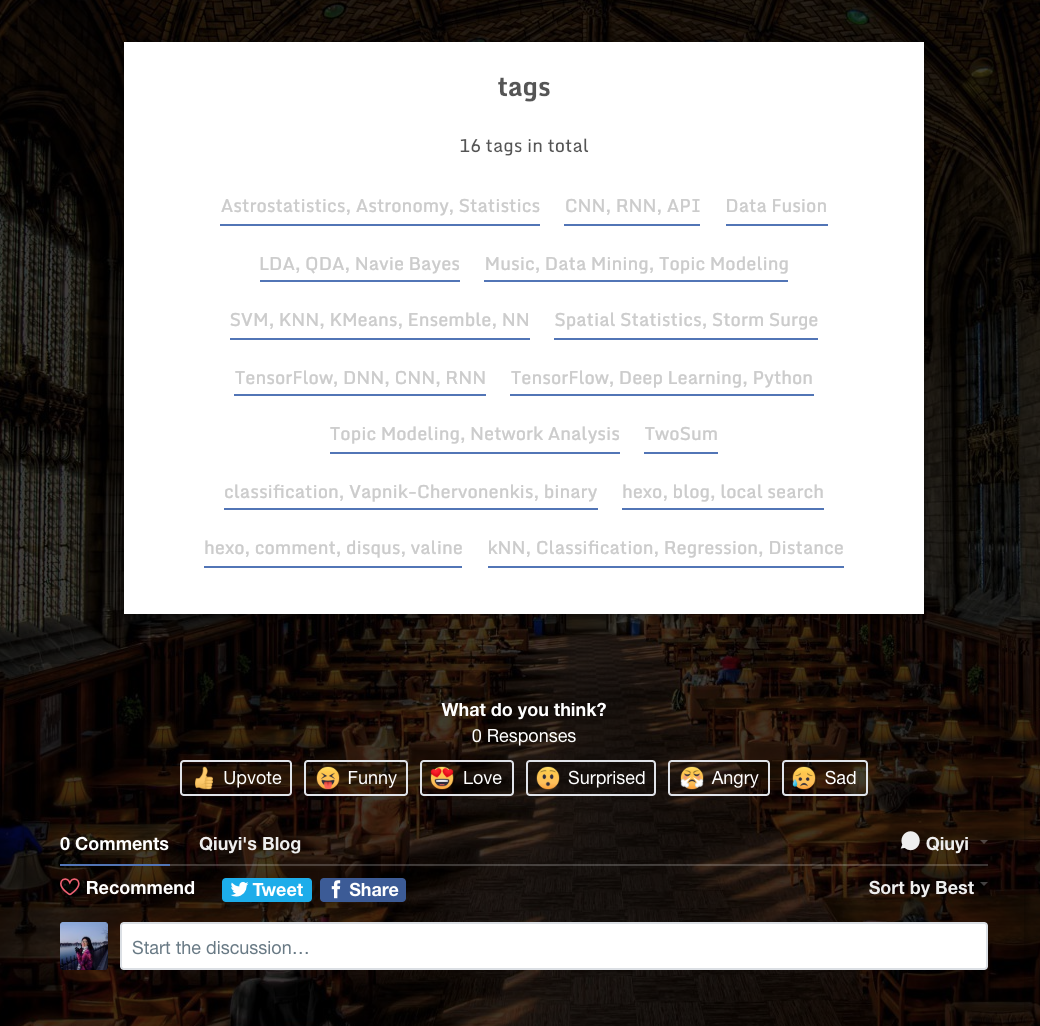
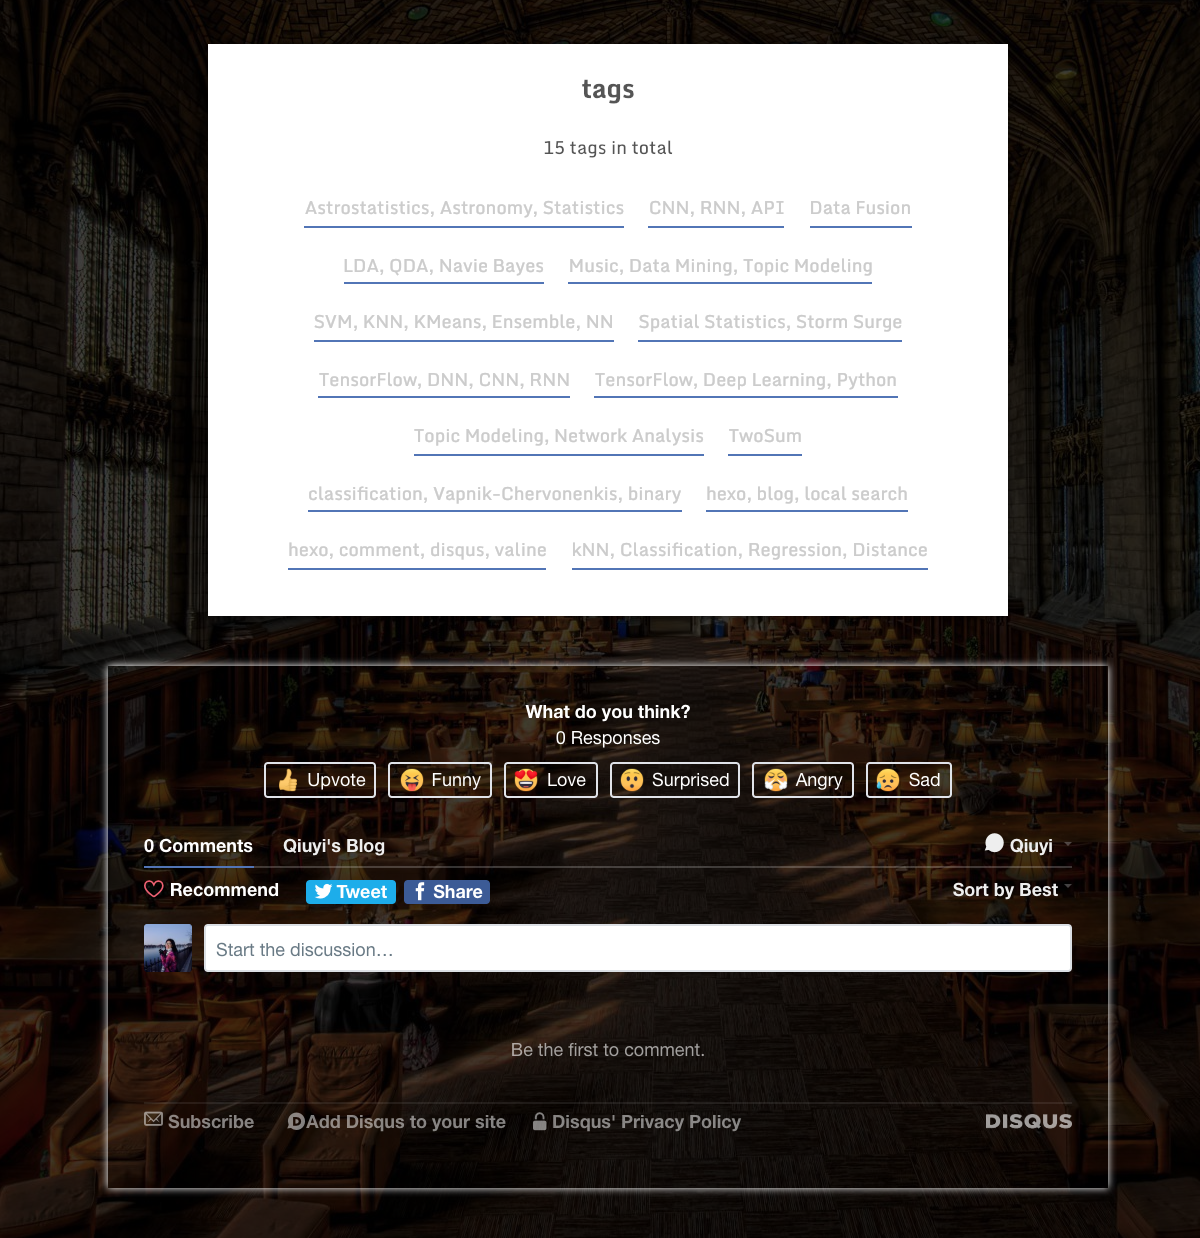
Site updated: 2019-01-25 22:59:00

diff --git a/2019/01/25/Hexo-Comment/index.html b/2019/01/25/Hexo-Comment/index.html
@@ -150,8 +150,10 @@
 <meta property="og:image" content="https://qiuyiwu.github.io/images/2019/01/s3.png">
 <meta property="og:image" content="https://qiuyiwu.github.io/images/2019/01/s4.png">
 <meta property="og:image" content="https://qiuyiwu.github.io/images/2019/01/s5.png">
+<meta property="og:image" content="https://qiuyiwu.github.io/images/2019/01/v1.gif">
+<meta property="og:image" content="https://qiuyiwu.github.io/images/2019/01/v2.gif">
 <meta property="og:image" content="https://qiuyiwu.github.io/images/2019/01/tag.png">
-<meta property="og:updated_time" content="2019-01-26T02:37:27.700Z">
+<meta property="og:updated_time" content="2019-01-26T03:57:09.523Z">
 <meta name="twitter:card" content="summary">
 <meta name="twitter:title" content="Add Comments to Your Hexo Site">
 <meta name="twitter:description" content="Hexo as a static site generators has become a popular choice for blogger. When using something like WordPress or Medium you get a comment section out of the box sponstaneously, it is not as straightfo">
@@ -423,7 +425,7 @@
               
                 <span class="post-meta-item-text">Post modified&#58;</span>
               
-              <time title="Post modified" itemprop="dateModified" datetime="2019-01-25T21:37:27-05:00">
+              <time title="Post modified" itemprop="dateModified" datetime="2019-01-25T22:57:09-05:00">
                 2019-01-25
               </time>
             
@@ -469,7 +471,7 @@
                   <span class="post-meta-item-text">Words count in article&#58;</span>
                 
                 <span title="Words count in article">
-                  943
+                  940
                 </span>
               
 
@@ -549,7 +551,7 @@
 <p>Then paste <code>&lt;div id=&quot;disqus_thread&quot;&gt;&lt;/div&gt;</code> where you want the comments to go.<br><strong>Now you are settled!</strong></p>
 <h2 id="Valine-Comments"><a href="#Valine-Comments" class="headerlink" title="Valine Comments"></a>Valine Comments</h2><p><a href="https://valine.js.org/en/hexo.html" target="_blank" rel="noopener">Valine</a> was designed in August 7, 2017. It’s a fast, simple &amp; efficient Leancloud based no back end comment system. Theoretically, but not limited to static blog. Hexo, Jekyll, Typecho, Hugo and other blog programs are currently using Valine. </p>
 <p><em>Note: Valine is a Chinese friendly system.</em></p>
-<h4 id="Features"><a href="#Features" class="headerlink" title="Features"></a>Features</h4><ul>
+<h3 id="Features"><a href="#Features" class="headerlink" title="Features"></a>Features</h3><ul>
 <li>Emoji 😉</li>
 <li>High speed.</li>
 <li>Safe by default.</li>
@@ -558,7 +560,7 @@
 <li>Simple and lightweight (15kB gzipped).</li>
 <li>Article reading statistics <code>v1.2.0+</code></li>
 </ul>
-<h4 id="Steps"><a href="#Steps" class="headerlink" title="Steps"></a>Steps</h4><ol>
+<h3 id="Steps"><a href="#Steps" class="headerlink" title="Steps"></a>Steps</h3><ol>
 <li><p>Creat an account in <a href="https://leancloud.cn/dashboard/login.html#/signup" target="_blank" rel="noopener">LeanCloud</a>.</p>
 </li>
 <li><p>Create new application in LeanCloud <a href="https://leancloud.cn/dashboard/applist.html#/newapp" target="_blank" rel="noopener">here</a>, and you will get APP ID/APP Key.<br>Details: Name your application, then go to <strong>Setting</strong>, then <strong>Apply Key</strong>.</p>
@@ -584,8 +586,9 @@
 </li>
 </ol>
 <p>More Information can be found <a href="https://valine.js.org/en/quickstart.html" target="_blank" rel="noopener">here</a>.</p>
-<h2 id="Comparison-Between-Disqus-amp-Valine"><a href="#Comparison-Between-Disqus-amp-Valine" class="headerlink" title="Comparison Between Disqus &amp; Valine"></a>Comparison Between Disqus &amp; Valine</h2><p>There are different merits between the two Comment systems.</p>
-<h2 id="Some-Tips"><a href="#Some-Tips" class="headerlink" title="Some Tips"></a>Some Tips</h2><h4 id="Modify-Comment-background-and-size"><a href="#Modify-Comment-background-and-size" class="headerlink" title="Modify Comment background and size"></a>Modify Comment background and size</h4><p>Under route <code>theme/source/css/_custom/custom.styl</code>, we can modify the size and background of the comment section.<br><figure class="highlight css"><table><tr><td class="gutter"><pre><span class="line">1</span><br><span class="line">2</span><br><span class="line">3</span><br><span class="line">4</span><br><span class="line">5</span><br><span class="line">6</span><br></pre></td><td class="code"><pre><span class="line"><span class="selector-class">.comments</span> &#123;</span><br><span class="line">    <span class="attribute">background-color</span>: <span class="built_in">rgba</span>(168, 201, 50, 0);</span><br><span class="line">    <span class="attribute">box-shadow</span>: <span class="number">0px</span> <span class="number">0px</span> <span class="number">10px</span> <span class="number">0px</span> <span class="built_in">rgba</span>(0, 0, 0, 0.35);</span><br><span class="line">    <span class="attribute">margin</span>: <span class="number">50px</span> -<span class="number">50px</span> <span class="number">20px</span> -<span class="number">50px</span>;</span><br><span class="line">    <span class="attribute">padding</span>: <span class="number">2rem</span>;</span><br><span class="line">&#125;</span><br></pre></td></tr></table></figure></p>
+<h2 id="Comparison-Between-Disqus-amp-Valine"><a href="#Comparison-Between-Disqus-amp-Valine" class="headerlink" title="Comparison Between Disqus &amp; Valine"></a>Comparison Between Disqus &amp; Valine</h2><p>There are different merits between the two Comment systems.<br><img src="/images/2019/01/v1.gif" alt="Sample Image Added via Markdown"></p>
+<p><img src="/images/2019/01/v2.gif" alt="Sample Image Added via Markdown"></p>
+<h2 id="Some-Tips"><a href="#Some-Tips" class="headerlink" title="Some Tips"></a>Some Tips</h2><h4 id="Modify-Comment-background-and-size"><a href="#Modify-Comment-background-and-size" class="headerlink" title="Modify Comment background and size"></a>Modify Comment background and size</h4><p>Under route <code>theme/source/css/_custom/custom.styl</code>, we can modify the size and background of the comment section.<br><figure class="highlight css"><table><tr><td class="gutter"><pre><span class="line">1</span><br><span class="line">2</span><br><span class="line">3</span><br><span class="line">4</span><br><span class="line">5</span><br><span class="line">6</span><br></pre></td><td class="code"><pre><span class="line"><span class="selector-class">.comments</span> &#123;</span><br><span class="line">    background-color: rgb(255, 255, 0);;</span><br><span class="line">    <span class="selector-tag">box-shadow</span>: 0<span class="selector-tag">px</span> 0<span class="selector-tag">px</span> 10<span class="selector-tag">px</span> 0<span class="selector-tag">px</span> <span class="selector-tag">rgb</span>(255, 255, 255);;</span><br><span class="line">    <span class="selector-tag">margin</span>: 50<span class="selector-tag">px</span> <span class="selector-tag">-50px</span> 20<span class="selector-tag">px</span> <span class="selector-tag">-50px</span>;</span><br><span class="line">    <span class="selector-tag">padding</span>: 2<span class="selector-tag">rem</span>;</span><br><span class="line">&#125;</span><br></pre></td></tr></table></figure></p>
 <h4 id="Turn-off-Comment-in-other-page"><a href="#Turn-off-Comment-in-other-page" class="headerlink" title="Turn off Comment in other page"></a>Turn off Comment in other page</h4><p>You may notice <strong>Comment</strong> appears in your category and tag and other pages, which you do not want it happen (showed below).<br><img src="/images/2019/01/tag.png" alt="Sample Image Added via Markdown"></p>
 <p>In this senario, you only need to false the comment with the command <code>comments: false</code> in front-matter block at the top of the file. Front-matter is a block of YAML or JSON at the beginning of the file that is used to configure settings for your writings. Front-matter is terminated by three dashes when written in YAML or three semicolons when written in JSON.</p>
 <figure class="highlight m"><table><tr><td class="gutter"><pre><span class="line">1</span><br><span class="line">2</span><br><span class="line">3</span><br><span class="line">4</span><br></pre></td><td class="code"><pre><span class="line">title: tags</span><br><span class="line">date: <span class="number">2018</span>-<span class="number">01</span>-<span class="number">01</span> <span class="number">16</span>:<span class="number">55</span>:<span class="number">34</span></span><br><span class="line"><span class="keyword">type</span>: <span class="string">"tags"</span></span><br><span class="line">comments: <span class="built_in">false</span></span><br></pre></td></tr></table></figure>
@@ -819,7 +822,7 @@
             
 
             
-              <div class="post-toc-content"><ol class="nav"><li class="nav-item nav-level-2"><a class="nav-link" href="#Disque-Comments"><span class="nav-number">1.</span> <span class="nav-text">Disque Comments</span></a></li><li class="nav-item nav-level-2"><a class="nav-link" href="#Valine-Comments"><span class="nav-number">2.</span> <span class="nav-text">Valine Comments</span></a><ol class="nav-child"><li class="nav-item nav-level-4"><a class="nav-link" href="#Features"><span class="nav-number">2.0.1.</span> <span class="nav-text">Features</span></a></li><li class="nav-item nav-level-4"><a class="nav-link" href="#Steps"><span class="nav-number">2.0.2.</span> <span class="nav-text">Steps</span></a></li></ol></li></ol><li class="nav-item nav-level-2"><a class="nav-link" href="#Comparison-Between-Disqus-amp-Valine"><span class="nav-number">3.</span> <span class="nav-text">Comparison Between Disqus &amp; Valine</span></a></li><li class="nav-item nav-level-2"><a class="nav-link" href="#Some-Tips"><span class="nav-number">4.</span> <span class="nav-text">Some Tips</span></a><ol class="nav-child"><li class="nav-item nav-level-4"><a class="nav-link" href="#Modify-Comment-background-and-size"><span class="nav-number">4.0.1.</span> <span class="nav-text">Modify Comment background and size</span></a></li><li class="nav-item nav-level-4"><a class="nav-link" href="#Turn-off-Comment-in-other-page"><span class="nav-number">4.0.2.</span> <span class="nav-text">Turn off Comment in other page</span></a></li></ol></li></div>
+              <div class="post-toc-content"><ol class="nav"><li class="nav-item nav-level-2"><a class="nav-link" href="#Disque-Comments"><span class="nav-number">1.</span> <span class="nav-text">Disque Comments</span></a></li><li class="nav-item nav-level-2"><a class="nav-link" href="#Valine-Comments"><span class="nav-number">2.</span> <span class="nav-text">Valine Comments</span></a><ol class="nav-child"><li class="nav-item nav-level-3"><a class="nav-link" href="#Features"><span class="nav-number">2.1.</span> <span class="nav-text">Features</span></a></li><li class="nav-item nav-level-3"><a class="nav-link" href="#Steps"><span class="nav-number">2.2.</span> <span class="nav-text">Steps</span></a></li></ol></li><li class="nav-item nav-level-2"><a class="nav-link" href="#Comparison-Between-Disqus-amp-Valine"><span class="nav-number">3.</span> <span class="nav-text">Comparison Between Disqus &amp; Valine</span></a></li><li class="nav-item nav-level-2"><a class="nav-link" href="#Some-Tips"><span class="nav-number">4.</span> <span class="nav-text">Some Tips</span></a><ol class="nav-child"><li class="nav-item nav-level-4"><a class="nav-link" href="#Modify-Comment-background-and-size"><span class="nav-number">4.0.1.</span> <span class="nav-text">Modify Comment background and size</span></a></li><li class="nav-item nav-level-4"><a class="nav-link" href="#Turn-off-Comment-in-other-page"><span class="nav-number">4.0.2.</span> <span class="nav-text">Turn off Comment in other page</span></a></li></ol></li></ol></div>
             
 
           </div>

diff --git a/index.html b/index.html
@@ -415,7 +415,7 @@
               
                 <span class="post-meta-item-text">Post modified&#58;</span>
               
-              <time title="Post modified" itemprop="dateModified" datetime="2019-01-25T21:37:27-05:00">
+              <time title="Post modified" itemprop="dateModified" datetime="2019-01-25T22:57:09-05:00">
                 2019-01-25
               </time>
             
@@ -461,7 +461,7 @@
                   <span class="post-meta-item-text">Words count in article&#58;</span>
                 
                 <span title="Words count in article">
-                  943
+                  940
                 </span>
               
 

diff --git a/css/main.css b/css/main.css
@@ -1819,7 +1819,7 @@ pre .javascript .function {
   width: 4px;
   height: 4px;
   border-radius: 50%;
-  background: #ff409a;
+  background: #045332;
 }
 .links-of-blogroll {
   font-size: 13px;
@@ -2727,8 +2727,8 @@ embed {
   top: 1px;
 }
 .comments {
-/*background-color: rgba(168, 201, 50, 0);
-    box-shadow: 0px 0px 10px 0px rgba(0, 0, 0, 0.35);*/
+  background-color: rgba(255,255,255,0);
+  box-shadow: 0px 0px 10px 0px #fff;
   margin: 50px -50px 20px -50px;
   padding: 2rem;
 }

diff --git a/tags/index.html b/tags/index.html
@@ -143,7 +143,7 @@
 <meta property="og:url" content="https://qiuyiwu.github.io/tags/index.html">
 <meta property="og:site_name" content="Qiuyi&#39;s Blog">
 <meta property="og:locale" content="en">
-<meta property="og:updated_time" content="2019-01-25T21:02:18.422Z">
+<meta property="og:updated_time" content="2019-01-26T03:55:26.501Z">
 <meta name="twitter:card" content="summary">
 <meta name="twitter:title" content="tags">
 

diff --git a/Research/index.html b/Research/index.html
@@ -129,8 +129,6 @@
 
 
 
-  
-
 
   <link rel="alternate" href="/atom.xml" title="Qiuyi's Blog" type="application/atom+xml">
 

diff --git a/Teaching/index.html b/Teaching/index.html
@@ -129,6 +129,8 @@
 
 
 
+  
+
 
   <link rel="alternate" href="/atom.xml" title="Qiuyi's Blog" type="application/atom+xml">
 
